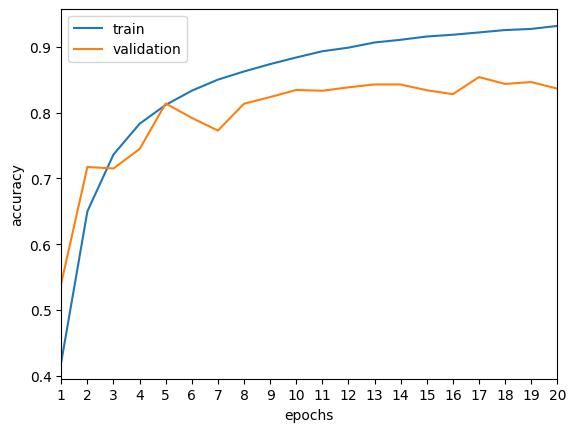
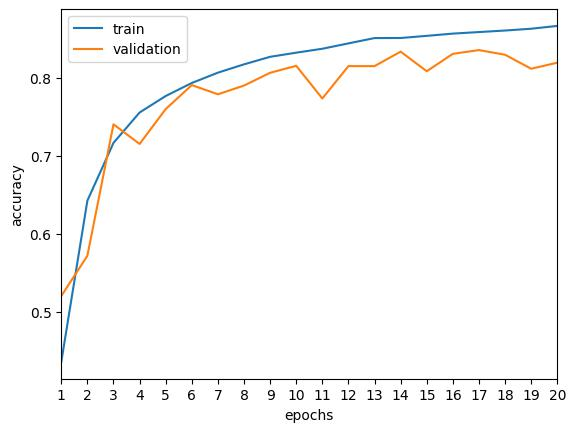
updated metrics

diff --git a/README.md b/README.md
@@ -15,11 +15,11 @@ The full mobilenet architecture is shown in the image below. <br>
 
 <img src="assets/mobilenet.jpg">
 
-The implementation was tested on the [CIFAR-10 dataset](https://www.cs.toronto.edu/~kriz/cifar.html).
-After training for 20 epochs, using the RMSProp optimizer with a learning rate of 1e-3, momentum of 0.9 and weight decay of 1e-6.
-20% of the training data was used as a validation set. At the end of 20 epochs, the training and validation accuracies were about 93% and 83% respectively. 
+The implementation was tested on the [CIFAR-10 dataset](https://www.cs.toronto.edu/~kriz/cifar.html), which was upsampled from 32x32 to 224x224. <br>
+After training for 20 epochs, using the Adam optimizer with a learning rate of 1e-2 and weight decay of 1e-5.
+10% of the training data was used as a validation set. At the end of 20 epochs, the training and validation accuracies were about 86.70% and 81.98% respectively. 
 
 <img src="assets/accuracy.jpg" width=40%> <img src="assets/loss.jpg" width=40%>
 
-The model was reloaded with the weights that had the lowest validation loss [epoch 17] and an overall accuracy of <b>84.62%</b> was achieved on the test set.
-The training and validation accuracies at epoch 17 was about 92% and 85% respectively.
+The model was reloaded with the weights that had the lowest validation loss [epoch 16] and an overall accuracy of <b>83.47%</b> was achieved on the test set. <br>
+The training and validation accuracies at epoch 16 was about 85.7% and 83.1% respectively.
